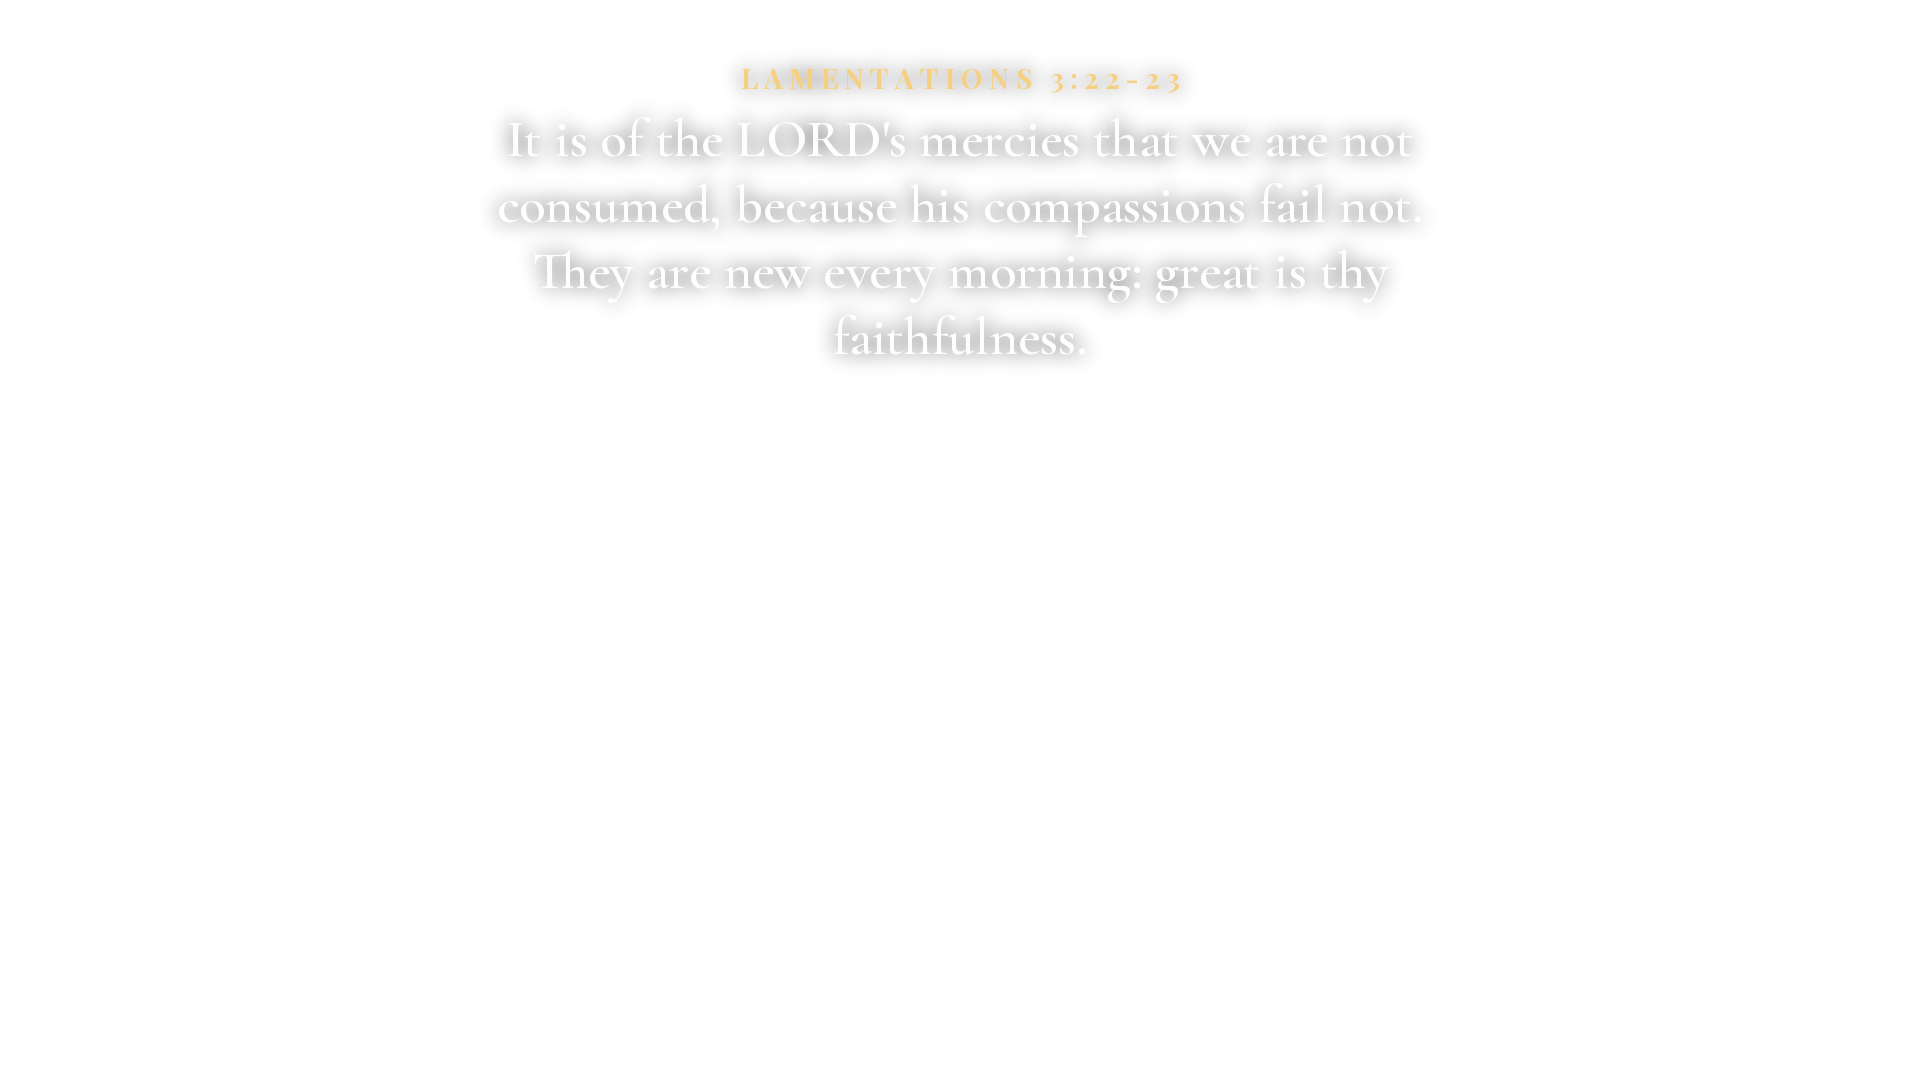
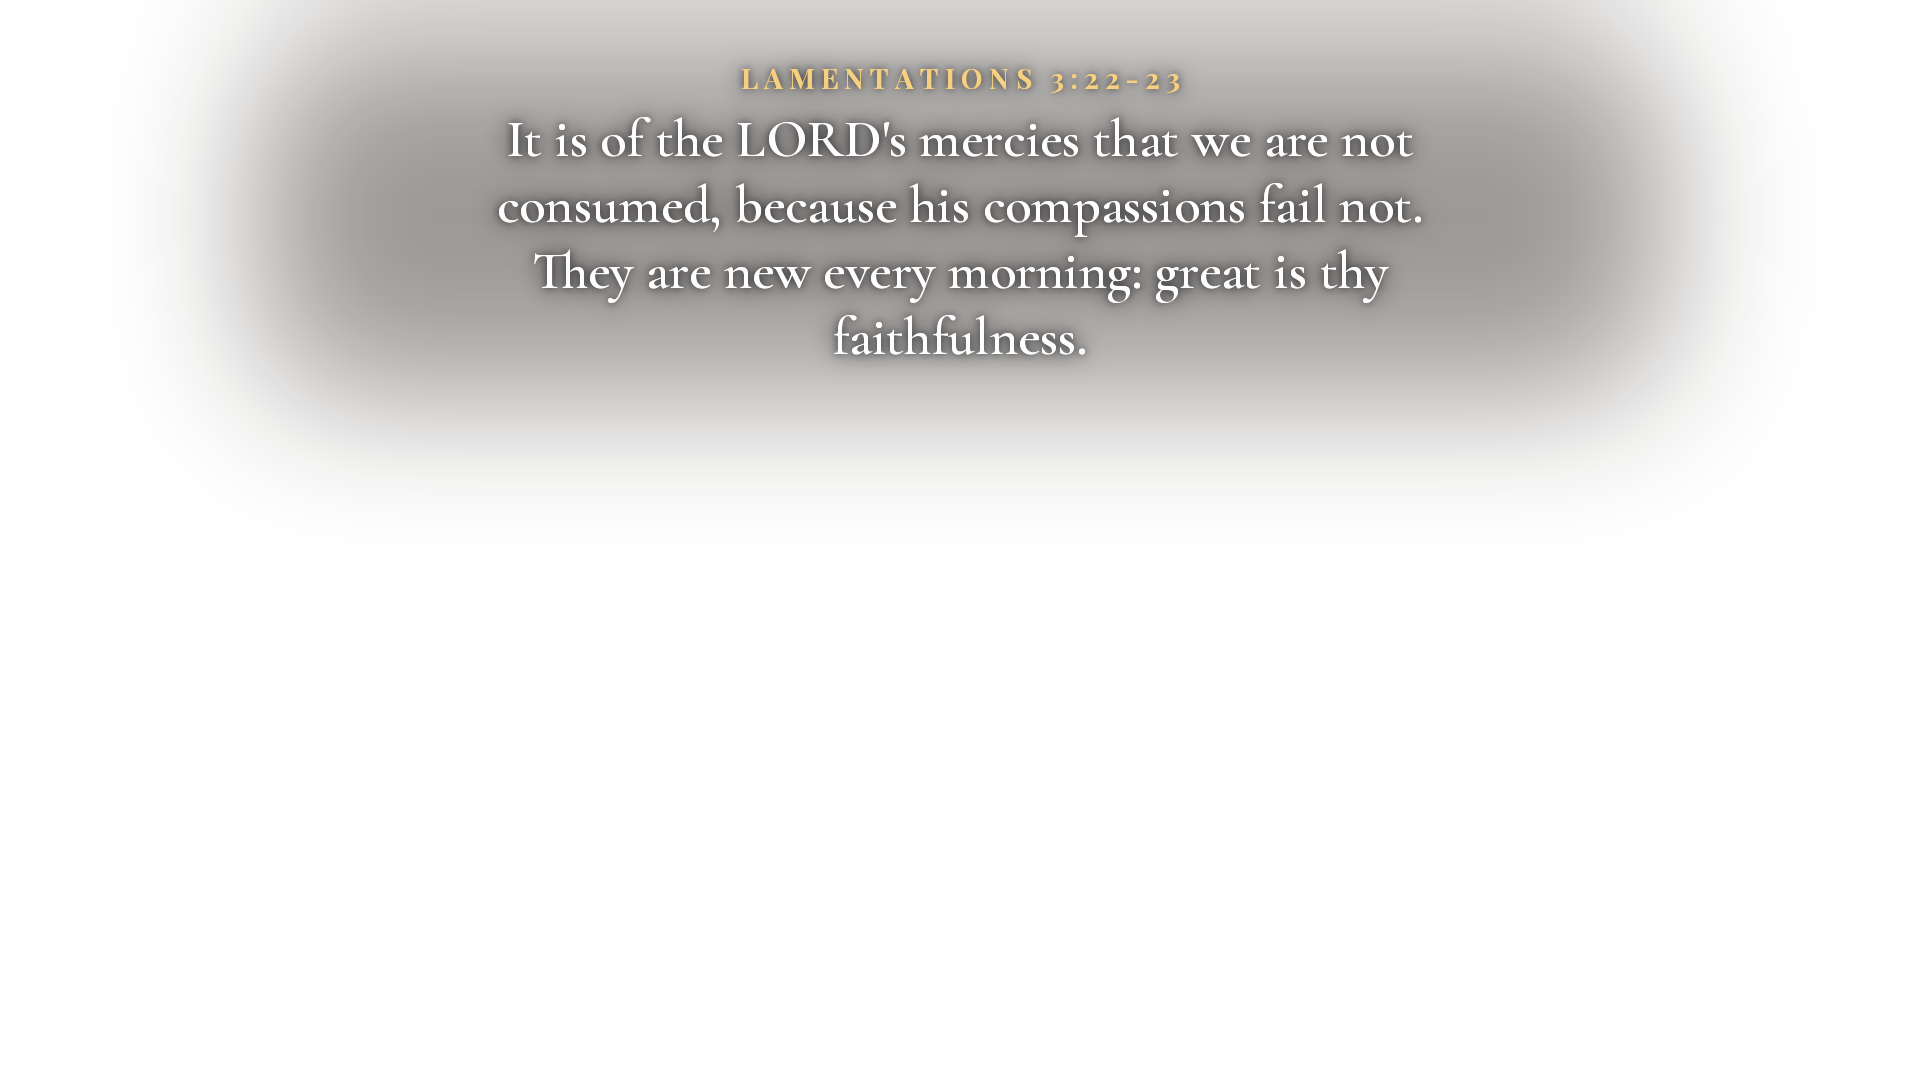
THANKFUL: soft band + stronger shadow behind verses and title for bright skies; tighter cover shadow
Claude-Session: https://claude.ai/code/session_01YR5eRpAdM7rswG2LixSHeV

Changed region(s): [[0.0938, 0.0, 0.9062, 0.4278]]

diff --git a/thankful-mac-render/make_assets.py b/thankful-mac-render/make_assets.py
@@ -46,6 +46,10 @@ def shadowed(fn,blur=10,k=0.8):
 def spaced(d,text,f,y,fill,sp,cx=W/2):
     ws=[d.textlength(c,font=f) for c in text]; x=cx-(sum(ws)+sp*(len(text)-1))/2
     for c,w in zip(text,ws): d.text((x,y),c,font=f,fill=fill); x+=w+sp
+def band(y0,y1,a=0.42):
+    # soft dark band behind the text so it reads on a bright golden sky
+    m=Image.new("L",(W,H),0); ImageDraw.Draw(m).rounded_rectangle((260,y0,W-260,y1),radius=80,fill=int(255*a))
+    m=m.filter(ImageFilter.GaussianBlur(70)); im=Image.new("RGBA",(W,H),(20,12,6,0)); im.putalpha(m); return im
 def verse(ref,text,out):
     body=font("CormorantGaramond.ttf",54,600); rf=font("PlayfairDisplay.ttf",28,700)
     lines=textwrap.wrap(text,44)
@@ -54,13 +58,14 @@ def verse(ref,text,out):
         y=106
         for ln in lines:
             tw=d.textlength(ln,font=body); d.text(((W-tw)/2,y),ln,font=body,fill=(255,255,255,248)); y+=66
-    shadowed(draw).save(out)
+    tx=shadowed(draw,12,1.0); tx=Image.alpha_composite(shadowed(draw,4,0.7),tx)
+    Image.alpha_composite(band(40,130+66*len(lines)),tx).save(out)
 def title(out):
     t=font("PlayfairDisplay.ttf",132); r=font("PlayfairDisplay.ttf",40,700)
     def draw(d):
         spaced(d,"THANKFUL",t,330,(255,255,255,255),40)
         spaced(d,"PSALM 100:4",r,520,GOLD,16)
-    shadowed(draw,14,0.85).save(out)
+    Image.alpha_composite(band(300,600,0.38),shadowed(draw,14,1.0)).save(out)
 def cta(kind,out):
     img=Image.new("RGBA",(W,H),(0,0,0,0)); d=ImageDraw.Draw(img)
     t=CTA[kind]; f=font("PlayfairDisplay.ttf",28)
